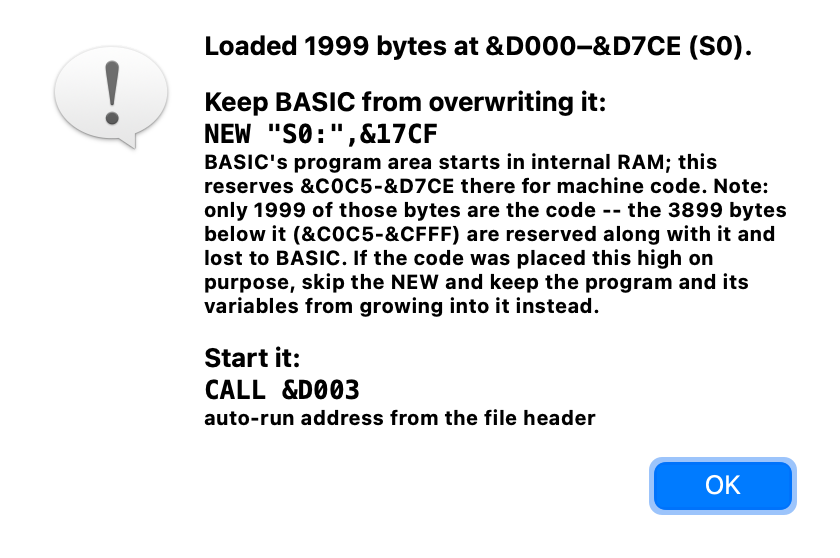
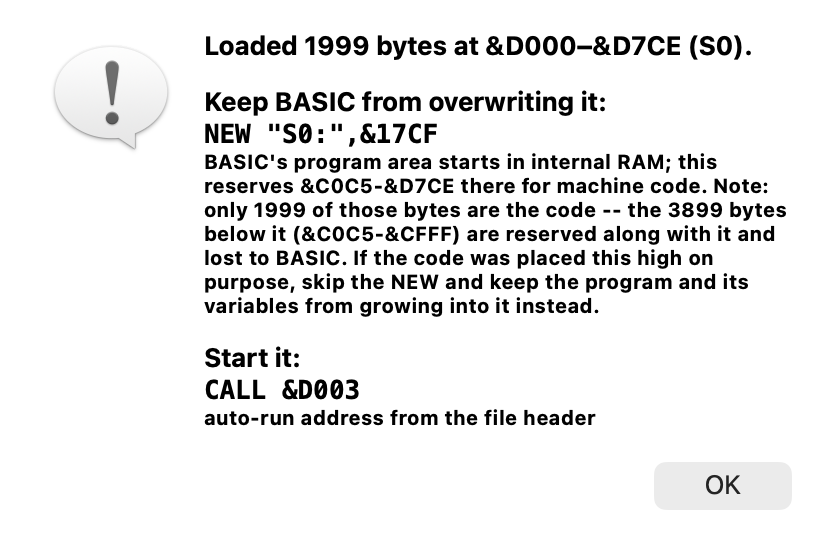
Load Machine Code: start-address placeholder fits the model
The field suggested &C0C5 (the PC-1600's BASIC area) on a PC-1500 too;
it now shows &7C01 there.

Changed region(s): [[0.7738, 0.7921, 0.9595, 0.9444]]

diff --git a/Qt6/app/MachineCodeLoadDialog.cpp b/Qt6/app/MachineCodeLoadDialog.cpp
@@ -21,7 +21,10 @@ MachineCodeLoadDialog::MachineCodeLoadDialog(QWidget* parent, machinecode::Targe
     layout->addLayout(form);
 
     m_addressField = new QLineEdit(this);
-    m_addressField->setPlaceholderText(tr("hex, e.g. &C0C5"));
+    // An example from the target's own map: the start of BASIC's program
+    // area on the PC-1600, the classic machine-code spot on the PC-1500.
+    m_addressField->setPlaceholderText(target == machinecode::Target::PC1600 ? tr("hex, e.g. &C0C5")
+                                                                             : tr("hex, e.g. &7C01"));
     if (defaultAddr != 0)
         m_addressField->setText(QStringLiteral("&") + QString::number(defaultAddr, 16).toUpper());
     form->addRow(tr("Start address:"), m_addressField);
